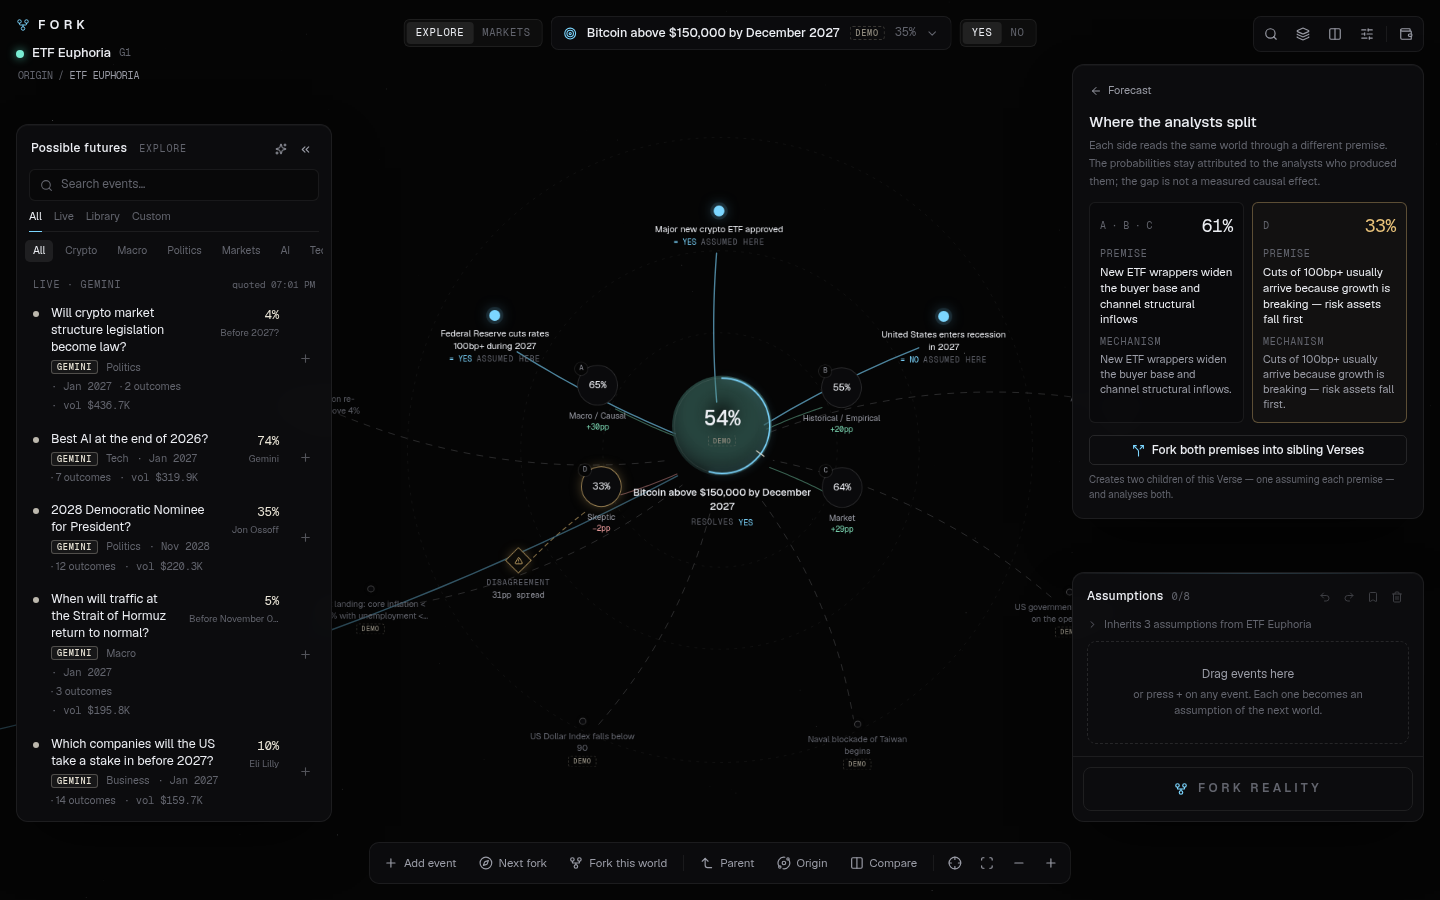
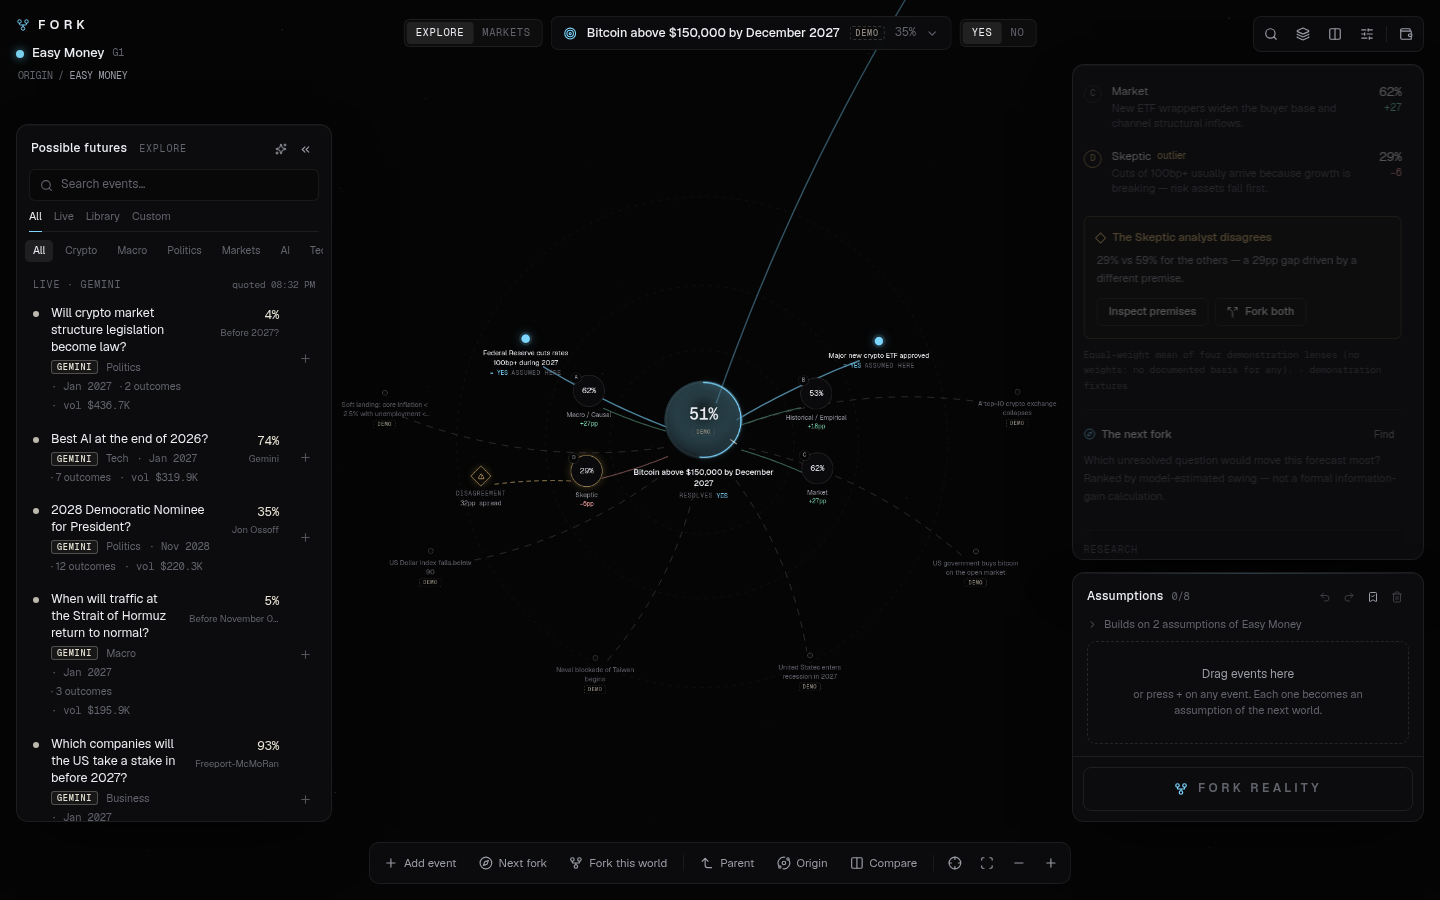
FORK: verification fixes — markets top bar no-wrap, compact mobile selector, revision prompt without id echo, disagreement node placement, no DEMO fallback under MODEL forecasts, demo NO narratives; README verification results

diff --git a/fork/src/components/hud/TargetSelector.tsx b/fork/src/components/hud/TargetSelector.tsx
@@ -117,7 +117,7 @@ export function TargetPicker({ onPicked, autoFocus = true }: { onPicked?: () => 
   );
 }
 
-export function TargetSelector() {
+export function TargetSelector({ compact = false }: { compact?: boolean }) {
   const [open, setOpen] = useState(false);
   const { target, events, currentVerseId, forecasts, forecastIndex, mode } = useUniverse(
     useShallow((s) => ({ target: s.target, events: s.events, currentVerseId: s.currentVerseId, forecasts: s.forecasts, forecastIndex: s.forecastIndex, mode: s.mode })),
@@ -130,13 +130,13 @@ export function TargetSelector() {
   const outcomes = ev?.eventType === "binary" ? ["YES", "NO"] : null;
 
   return (
-    <div className="pointer-events-auto flex items-center gap-2">
-      <ModeSwitch />
+    <div className="pointer-events-auto flex min-w-0 items-center gap-2 whitespace-nowrap">
+      {!compact && <ModeSwitch />}
       <Popover.Root open={open} onOpenChange={setOpen}>
         <Popover.Trigger asChild>
           <button
             disabled={busy}
-            className="group flex h-[34px] max-w-[min(52vw,560px)] items-center gap-2.5 rounded-lg border border-line bg-surface/80 px-3 text-left backdrop-blur transition-colors hover:border-line-2"
+            className={`group flex h-[34px] min-w-0 items-center ${compact ? "max-w-full" : "max-w-[min(40vw,520px)]"} gap-2.5 rounded-lg border border-line bg-surface/80 px-3 text-left backdrop-blur transition-colors hover:border-line-2`}
             aria-label={`Change target. Current: ${ev?.title}`}
             data-testid="target-selector"
           >
@@ -158,7 +158,7 @@ export function TargetSelector() {
           </Popover.Content>
         </Popover.Portal>
       </Popover.Root>
-      {outcomes && (
+      {outcomes && !compact && (
         <div className="seg" role="radiogroup" aria-label="Target outcome">
           {outcomes.map((o) => (
             <button key={o} role="radio" aria-checked={target.outcome === o} disabled={busy} onClick={() => useUniverse.getState().setTarget({ ...target, outcome: o })} className="relative">
@@ -169,7 +169,7 @@ export function TargetSelector() {
         </div>
       )}
       {mode === "markets" && snap && (
-        <div className="hidden items-center gap-2 xl:flex" aria-label="Market quote">
+        <div className="hidden shrink-0 items-center gap-2 whitespace-nowrap min-[1360px]:flex" aria-label="Market quote">
           <KindTag kind="MARKET" small />
           <span className="num text-[10.5px] text-ink-3">
             bid <span className="text-ink-2">{snap.bid ?? "—"}</span> · ask <span className="text-ink-2">{snap.ask ?? "—"}</span>

diff --git a/fork/src/lib/server/engine.ts b/fork/src/lib/server/engine.ts
@@ -172,7 +172,7 @@ Run at most 3 web searches. Return: summary (≤120 words of the current real-wo
   return digest;
 }
 
-function analystPrompt(req: ForecastRequest, digest: ResearchDigest | null) {
+function analystPrompt(req: ForecastRequest, digest: ResearchDigest | null, opts: { echoIds?: boolean } = {}) {
   const target = req.target as ForkEvent;
   return `TARGET: P("${target.title}" resolves ${req.targetOutcome})
 ${describeEvent(target)}
@@ -183,8 +183,7 @@ ${scenarioBlock(req)}
 
 RESEARCH DIGEST (${digest ? "web research, cite only these URLs" : "unavailable — rely on your knowledge and say so"}):
 ${digest ? digest.summary + "\n" + digest.findings.map((f) => `- ${f.claim} [${f.title}, ${f.publisher}] ${f.url}`).join("\n") : "(none)"}
-
-Echo targetEventId="${target.id}" and the scenario eventIds/resolutions exactly as given.`;
+${opts.echoIds === false ? "" : `\nEcho targetEventId="${target.id}" and the scenario eventIds/resolutions exactly as given.`}`;
 }
 
 function validateOutput(o: unknown, req: ForecastRequest, allowedUrls: Set<string>): z.infer<typeof AnalystOutput> {
@@ -256,7 +255,7 @@ async function revise(f: Forecast, req: ForecastRequest, digest: ResearchDigest 
       try {
         const r = await runProvider<z.infer<typeof RevisionSchema>>((run.provider as Provider) ?? "claude", {
           system: `${ROLE_SYSTEM[run.role]}\nYou are in a revision round. You may revise or hold your estimate. Do not move toward others merely to agree.`,
-          prompt: `${analystPrompt(req, digest)}\n\nYour previous estimate: ${(run.output!.probability * 100).toFixed(0)}%. Your headline: ${run.output!.headline}\n\nOther analysts' ARGUMENTS (their numbers are withheld):\n${others}\n\nReturn your final probability and a one-sentence note on whether/why you changed it.`,
+          prompt: `${analystPrompt(req, digest, { echoIds: false })}\n\nYour previous estimate: ${(run.output!.probability * 100).toFixed(0)}%. Your headline: ${run.output!.headline}\n\nOther analysts' ARGUMENTS (their numbers are withheld):\n${others}\n\nReturn your final probability and a one-sentence note (plain prose, no ids) on whether/why you changed it.`,
           schema: z.toJSONSchema(RevisionSchema),
           timeoutMs: 120_000,
         });

diff --git a/fork/src/components/graph/nodes.tsx b/fork/src/components/graph/nodes.tsx
@@ -65,11 +65,12 @@ function TargetNode({ meta }: { meta: Extract<NodeMeta, { kind: "target" }> }) {
   const f = meta.forecast;
   const observed = observedProbability(meta.event, meta.outcome);
   const p = f?.ensembleProbability ?? null;
-  const base = f?.baselineProbability ?? observed?.value ?? null;
+  const observedOk = observed && !(f?.kind === "MODEL" && observed.kind === "DEMO") ? observed : null;
+  const base = f?.baselineProbability ?? observedOk?.value ?? null;
   const shown = p ?? base;
   const analyzing = !!f && !["complete", "partial", "failed"].includes(f.status);
   const done = f?.modelOutputs.filter((r) => r.status === "done").length ?? 0;
-  const kind = p !== null ? f!.kind : (f?.baselineKind ?? observed?.kind ?? null);
+  const kind = p !== null ? f!.kind : (f?.baselineKind ?? observedOk?.kind ?? (f ? f.kind : null));
   return (
     <div className="flex flex-col items-center" style={{ width: 260 }}>
       <div className="relative" style={{ width: R_TARGET * 2, height: R_TARGET * 2 }}>

diff --git a/fork/src/lib/demo/engine.ts b/fork/src/lib/demo/engine.ts
@@ -80,7 +80,11 @@ export function runDemoForecast(opts: {
       const title = eventTitle(a.eventId, events);
       const why = role === "skeptic" && e.eff.skeptic ? e.eff.skeptic : e.eff.why;
       const dir = e.eff.d[i] * e.sign >= 0 ? "raises" : "lowers";
-      return { claim: `${title} = ${a.outcome}: ${dir} the estimate. ${why}`, why, title, outcome: a.outcome };
+      const claim =
+        a.outcome === "NO"
+          ? `${title} = NO: ${dir} the estimate by ruling out this mechanism — “${why}”`
+          : `${title} = YES: ${dir} the estimate. ${why}`;
+      return { claim, why, title, outcome: a.outcome };
     });
     const top = [...authored].sort((x, y) => {
       const ex = effectFor(target.id, x)!;

diff --git a/fork/src/components/graph/model.ts b/fork/src/components/graph/model.ts
@@ -84,7 +84,7 @@ export function buildGraph(input: {
     if (dis?.significant && dis.outlierRole) {
       const id = nid.dis(V);
       const a = rad(ROLE_ANGLES[dis.outlierRole]);
-      nodes.push({ id, type: "disagreement", ax: C.x + Math.cos(a) * 285, ay: C.y + Math.sin(a) * 150 + (Math.sin(a) > 0 ? 95 : -95), r: 22 });
+      nodes.push({ id, type: "disagreement", ax: C.x + Math.cos(a) * 395, ay: C.y + Math.sin(a) * 165, r: 22 });
       meta.set(id, { kind: "disagreement", forecast: curForecast });
       edges.push({ id: `${id}--f`, from: nid.forecast(V, dis.outlierRole), to: id, kind: "contradiction", label: "Significant model disagreement" });
     }

diff --git a/fork/src/components/ForkApp.tsx b/fork/src/components/ForkApp.tsx
@@ -168,8 +168,8 @@ function Workspace() {
           <TopRight />
         </div>
         {!desktop && (
-          <div className={`absolute inset-x-3 flex overflow-x-auto pb-1 ${tablet ? "top-[100px] justify-center" : "top-[104px] justify-start"}`}>
-            <TargetSelector />
+          <div className={`absolute inset-x-3 flex pb-1 ${tablet ? "top-[100px] justify-center overflow-x-auto" : "top-[96px] justify-center"}`}>
+            <TargetSelector compact={!tablet} />
           </div>
         )}
 

diff --git a/fork/README.md b/fork/README.md
@@ -183,10 +183,13 @@ Icons: **Lucide** (ISC). See [NOTICES.md](NOTICES.md).
 
 ## Test results
 
-Run on 2026-11-17, headless Chromium 1243. Results were identical against `next dev` and the production build (`next build && next start`):
+### Automated suite (`npm test`)
+
+Run on 2026-11-17 with headless Chromium 1243. Results were identical against
+`next dev` and the production build:
 
 ```
-15 passed (59.4s)
+15 passed
   e2e  1–2   loads, welcome renders, target search finds events
   e2e  3–18  basket (click-add, drag-add, outcome change, remove, undo), fork with
              rapid re-click (exactly one child created), naming, deeper fork with
@@ -200,11 +203,49 @@ Run on 2026-11-17, headless Chromium 1243. Results were identical against `next 
              one-sided, Verse placement/ancestry/inheritance
 ```
 
-Also verified manually:
+### Full feature verification (scripted browser walkthrough with screenshots)
 
-- **Live `claude -p` engine:** `/api/forecast` returned research with 6 cited sources and 4 valid analyst outputs (ensemble 13% for BTC > $150k by Dec 2027 given Fed cuts and no recession). In the UI, Markets mode on Gemini `RECESSION26` gave 1% vs the market's 4%, with cited research sources (BEA, Reuters and others). The first attempt surfaced a CLI schema error; the UI showed "All analysts failed" with no number, as designed.
-- **Production build:** `next build` succeeds; eslint is clean; `tsc` is clean.
-- **Frame rate:** ~20 fps in *software-rendered* headless Chromium (SwiftShader, no GPU) on a 4-core server. That isn't representative of a laptop GPU, and 60 fps was **not measured** on real hardware.
+All 22 demo-engine steps pass, plus the live-model steps. No console or runtime
+errors were recorded:
+
+- welcome with live Gemini examples
+- categorical live market as target (outcome picker)
+- Markets mode order book
+- discovery categories, source tabs and empty state
+- custom event creation
+- add with an explicit outcome
+- mutually-exclusive conflict warning and acknowledgement
+- undo / redo / draft save / clear / restore
+- full fork choreography and naming via a suggestion chip
+- hover tooltip, Verse popover, keyboard fit/focus
+- node drag and spring return
+- edge hover naming the relationship
+- analyst inspector, disagreement view, *fork both* (two tagged siblings)
+- next-fork ranking and adding a suggestion as a pending graph node
+- compare
+- Universe tree rename and subtree delete
+- ⌘K palette (target switch, so the next forecast isn't reused)
+- settings, wallet popover (no extension) and the onchain guard
+- reload persistence and the universe overview
+- mobile sheets plus a full fork on 390×844
+
+### Live models (real CLI runs)
+
+| Mode | Scenario | Result |
+| --- | --- | --- |
+| Claude only | BTC > $150k by Dec 2027 · Fed cuts 100bp YES · recession NO | 12–15% (4 analysts), 6 cited sources |
+| Codex only | same | 44–48% (4 analysts, `gpt-6-astra` via `codex exec`) |
+| Mixed | same | Claude A/C 13–17% vs Codex B/D 43–48%. Significant disagreement → revision round (each held) → ensemble 30.5% |
+| Mixed (UI) | US AI law by 2027 · AI incident YES · Taiwan blockade YES | Claude 12–14%, Codex 38–43%, disagreement node, 5 sources, baseline = Origin model estimate 22% |
+| Claude only (UI) | Gemini `RECESSION26` (market 4%) · two live assumptions | 1–2% with cited research |
+
+A first CLI attempt failed on a schema error. The UI showed "All analysts
+failed" with no number, as designed.
+
+Also checked: `next build` succeeds; eslint and `tsc` are clean. Frame rate is
+about 20 fps in *software-rendered* headless Chromium (SwiftShader, no GPU) on a
+4-core server. That isn't representative of a laptop GPU, and 60 fps was **not
+measured** on real hardware.
 
 ## Screenshots
 
@@ -217,6 +258,8 @@ Also verified manually:
 | ![](docs/screenshots/10-live-claude-forecast.png) live Claude forecast | ![](docs/screenshots/11-research-and-onchain.png) research + onchain |
 | ![](docs/screenshots/12-compare.png) compare | ![](docs/screenshots/13-universe-overview.png) universe overview |
 | ![](docs/screenshots/15-graph-drag-magnetic.png) graph → basket (magnetic) | ![](docs/screenshots/16-mobile.png) mobile |
+| ![](docs/screenshots/18-live-mixed-claude-codex.png) live mixed Claude + Codex | ![](docs/screenshots/19-settings-providers.png) settings · providers |
+| ![](docs/screenshots/20-edge-hover.png) edge relationship hover | ![](docs/screenshots/21-conflict-warning.png) conflict warning |
 
 ## Known limitations
 
